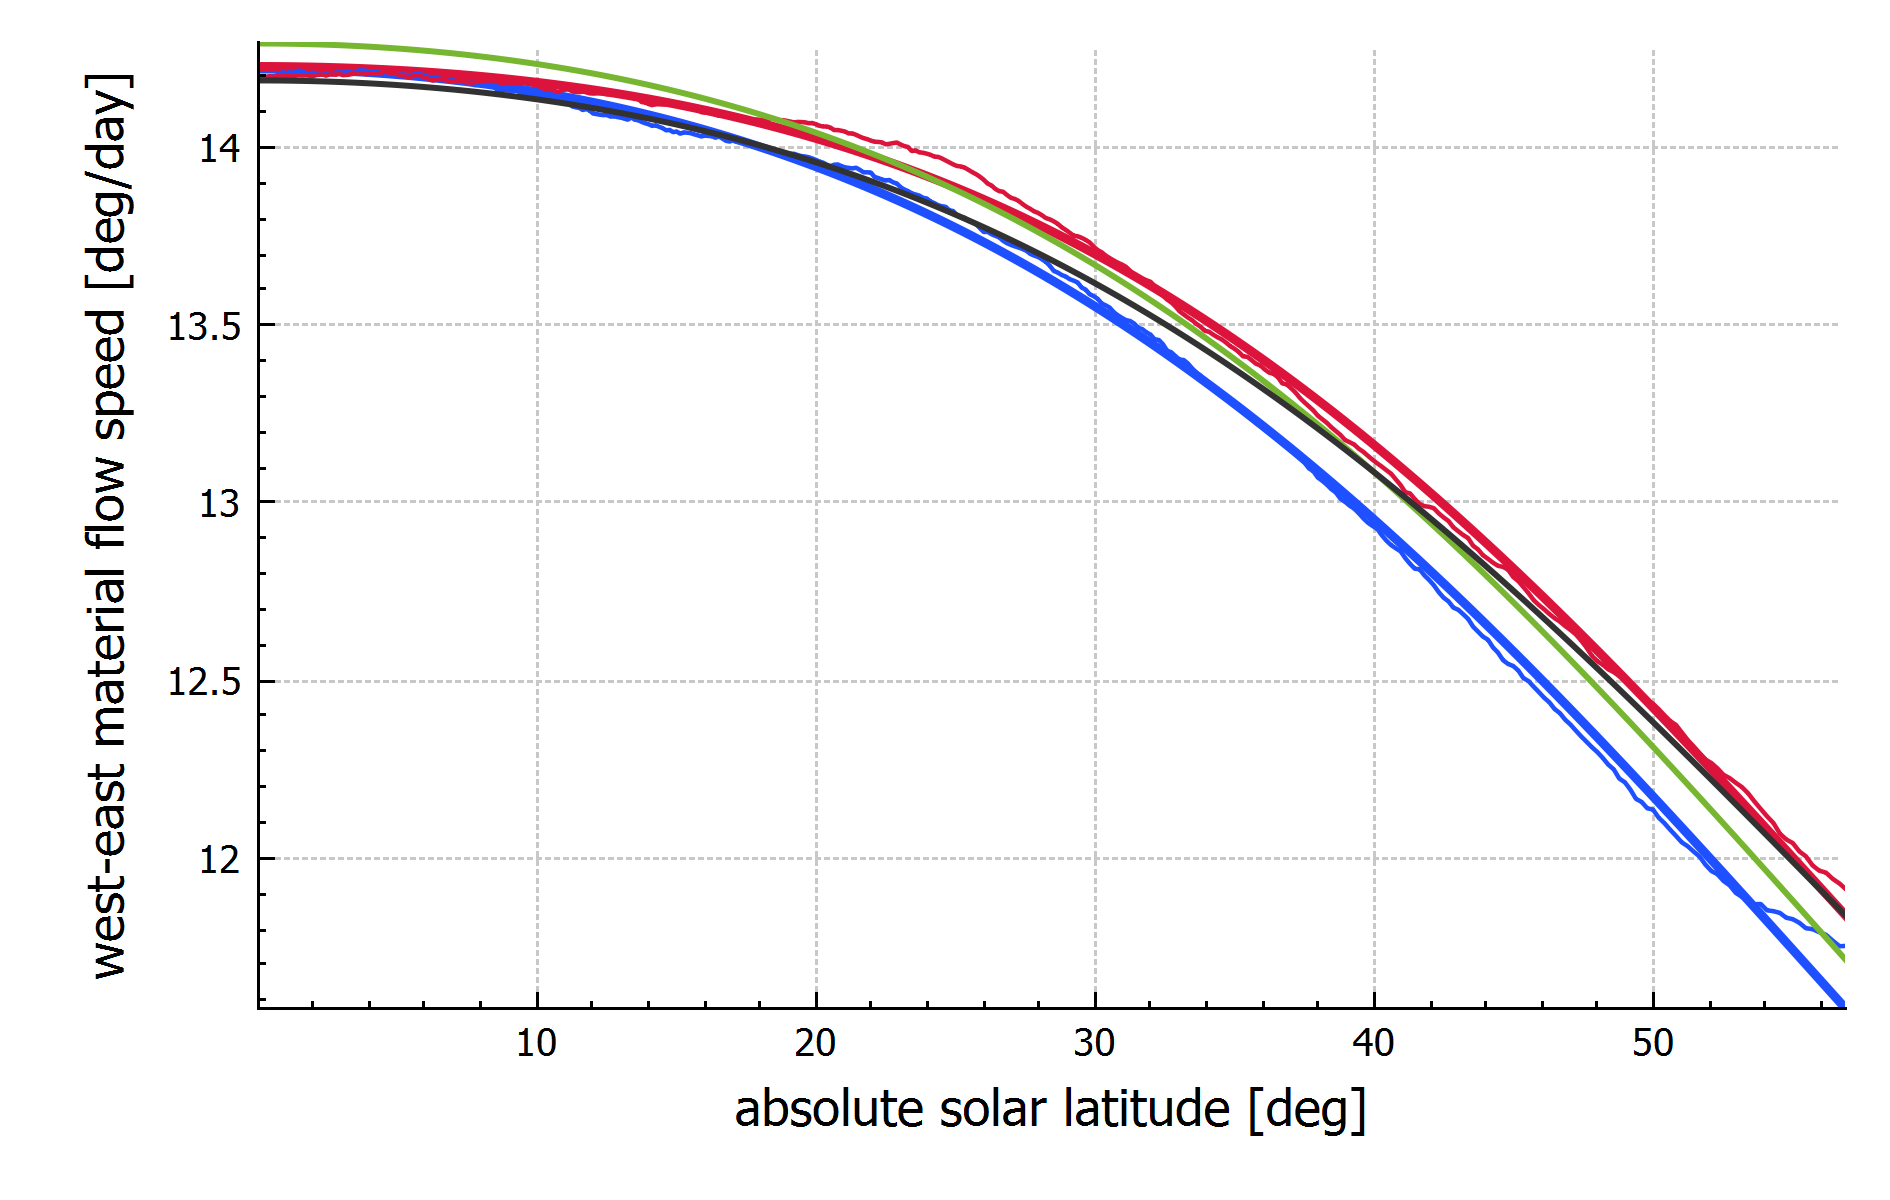
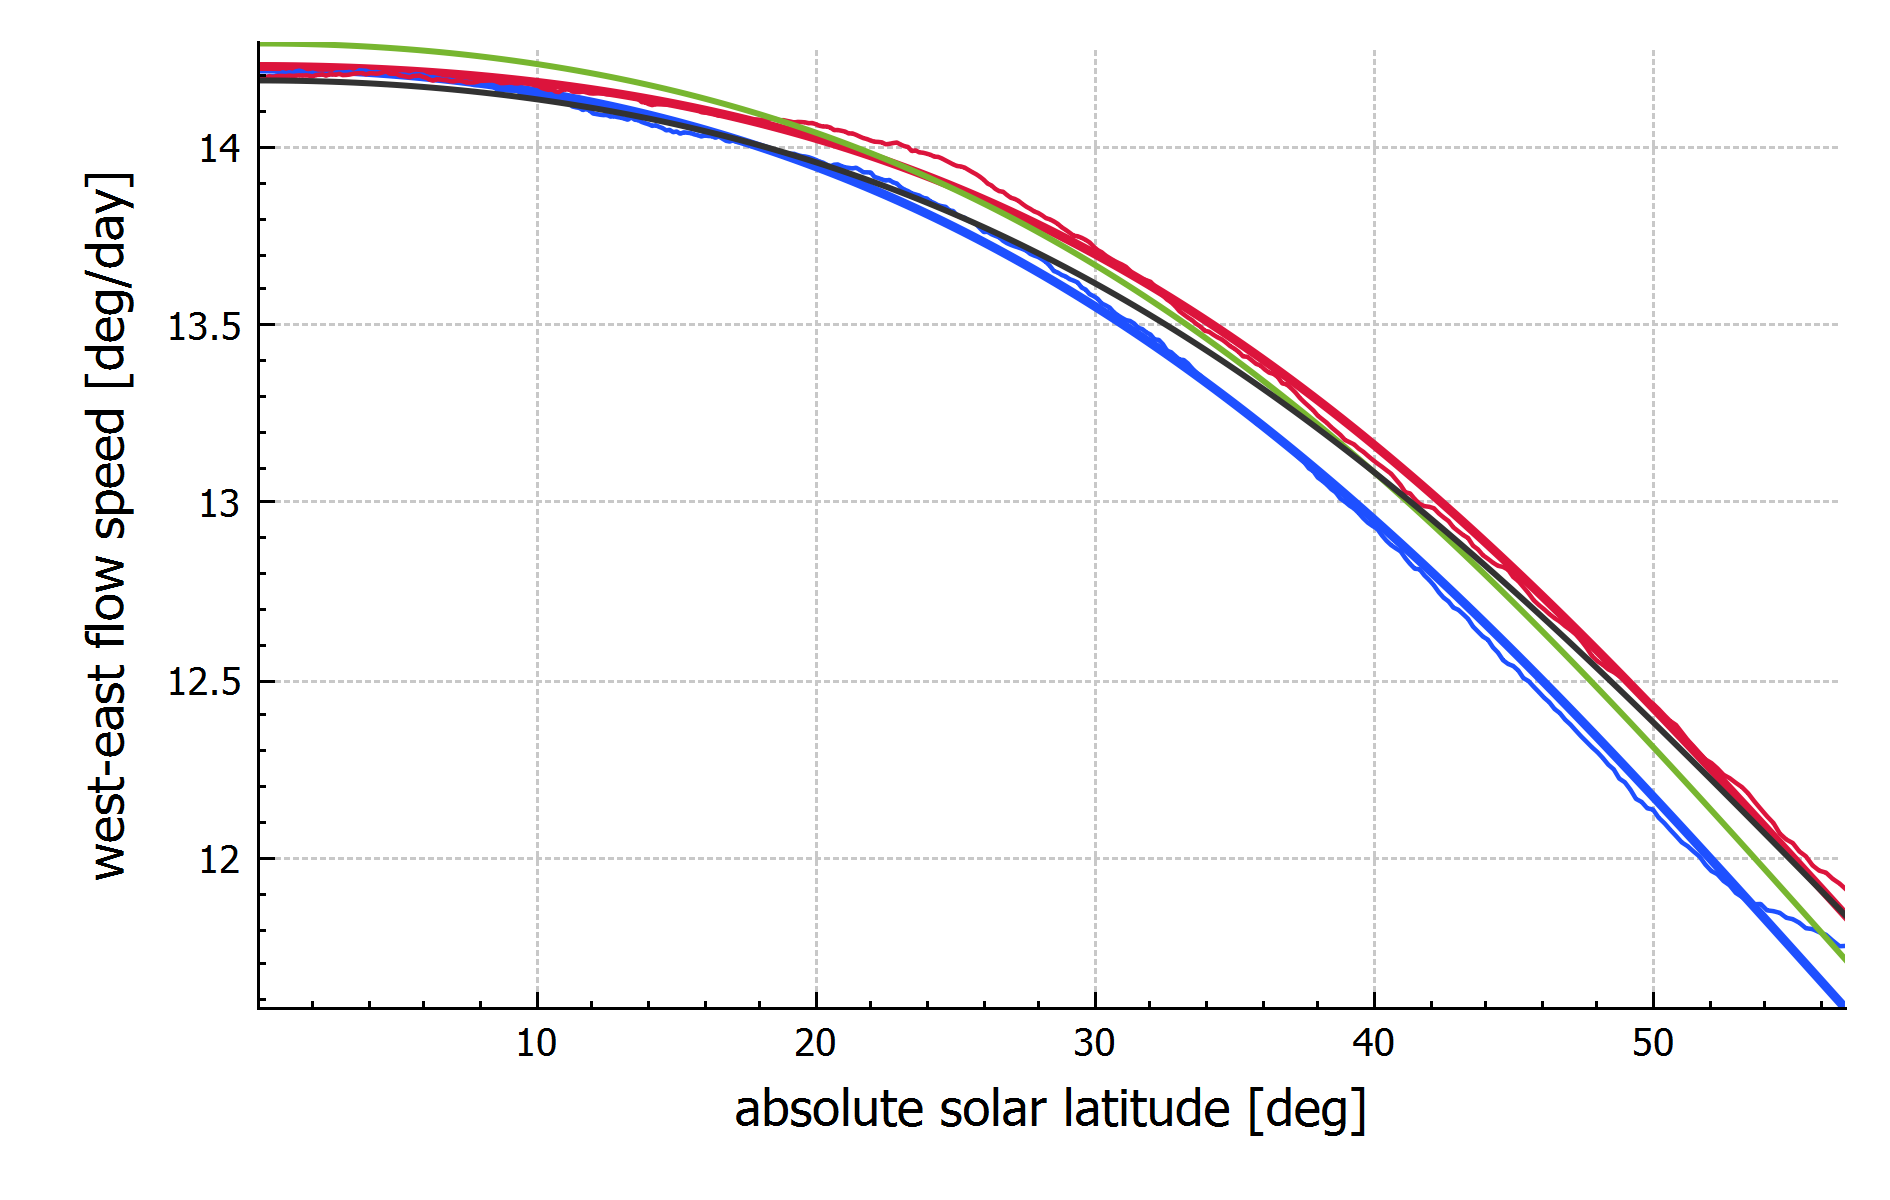
median results for 302

Changed region(s): [[0.0312, 0.0617, 0.0937, 0.8017]]

diff --git a/Zdeny_PhD_Shenanigans/Astrophysics/diffrotResults.h b/Zdeny_PhD_Shenanigans/Astrophysics/diffrotResults.h
@@ -39,24 +39,24 @@ public:
     // ======================================================== PLOTS ========================================================
 
     // diffrot profiles
-    Plot1D::plot(SourceThetasavg, std::vector<std::vector<double>>{polyfit(SourceThetasavg, SourceOmegasXavg, 2), SourceOmegasXavg, PredicXs[0], PredicXs[1]}, "diffrot profile X", "solar latitude [deg]", "west-east material flow speed [deg/day]", std::vector<std::string>{"polyfit2", "average", "Derek A. Lamb (2017)", "Howard et al. (1983)"}, std::vector<QPen>{QPen(Plot::black, 3), QPen(Plot::green, 1.5), QPen(Plot::blue, 2), QPen(Plot::red, 2)}, saveDir + "1DXs" + to_string(SourceStride) + ".png");
-    Plot1D::plot(SourceThetasavg, std::vector<std::vector<double>>{polyfit(SourceThetasavg, SourceOmegasYavg, 3), SourceOmegasYavg}, "diffrot profile Y", "solar latitude [deg]", "north-south material flow speed [deg/day]", std::vector<std::string>{"polyfit3", "average"}, std::vector<QPen>{QPen(Plot::black, 3), QPen(Plot::green, 1.5)}, saveDir + "1DYs" + to_string(SourceStride) + ".png"); // rgb(119, 136, 153)
+    Plot1D::plot(SourceThetasavg, std::vector<std::vector<double>>{polyfit(SourceThetasavg, SourceOmegasXavg, 2), SourceOmegasXavg, PredicXs[0], PredicXs[1]}, "diffrot profile X", "solar latitude [deg]", "west-east flow speed [deg/day]", std::vector<std::string>{"polyfit2", "average", "Derek A. Lamb (2017)", "Howard et al. (1983)"}, std::vector<QPen>{QPen(Plot::black, 3), QPen(Plot::green, 1.5), QPen(Plot::blue, 2), QPen(Plot::red, 2)}, saveDir + "1DXs" + to_string(SourceStride) + ".png");
+    Plot1D::plot(SourceThetasavg, std::vector<std::vector<double>>{polyfit(SourceThetasavg, SourceOmegasYavg, 3), SourceOmegasYavg}, "diffrot profile Y", "solar latitude [deg]", "north-south flow speed [deg/day]", std::vector<std::string>{"polyfit3", "average"}, std::vector<QPen>{QPen(Plot::black, 3), QPen(Plot::green, 1.5)}, saveDir + "1DYs" + to_string(SourceStride) + ".png"); // rgb(119, 136, 153)
 
     // diffrot profiles NS
-    Plot1D::plot(ThetasNS, std::vector<std::vector<double>>{sin2sin4fit(toRadians(ThetasNS), OmegasXavgN), sin2sin4fit(toRadians(ThetasNS), OmegasXavgS), OmegasXavgN, OmegasXavgS, PredicXsNS[0], PredicXsNS[1]}, "diffrot profile NS X", "absolute solar latitude [deg]", "west-east material flow speed [deg/day]", std::vector<std::string>{"trigfit North", "trigfit South", "average North", "average South", "Derek A. Lamb (2017)", "Howard et al. (1983)"}, std::vector<QPen>{QPen(Plot::blue, 3), QPen(Plot::red, 3), QPen(Plot::blue, 1.5), QPen(Plot::red, 1.5), QPen(Plot::green, 2), QPen(Plot::black, 2)}, saveDir + "1DNSXs" + to_string(SourceStride) + ".png");
-    Plot1D::plot(ThetasNS, std::vector<std::vector<double>>{sin2sin4fit(toRadians(ThetasNS), OmegasYavgN), sin2sin4fit(toRadians(ThetasNS), OmegasYavgS), OmegasYavgN, OmegasYavgS}, "diffrot profile NS Y", "absolute solar latitude [deg]", "north-south material flow speed [deg/day]", std::vector<std::string>{"trigfit North", "trigfit South", "average North", "average South"}, std::vector<QPen>{QPen(Plot::blue, 3), QPen(Plot::red, 3), QPen(Plot::blue, 1.5), QPen(Plot::red, 1.5)}, saveDir + "1DNSYs" + to_string(SourceStride) + ".png");
+    Plot1D::plot(ThetasNS, std::vector<std::vector<double>>{sin2sin4fit(toRadians(ThetasNS), OmegasXavgN), sin2sin4fit(toRadians(ThetasNS), OmegasXavgS), OmegasXavgN, OmegasXavgS, PredicXsNS[0], PredicXsNS[1]}, "diffrot profile NS X", "absolute solar latitude [deg]", "west-east flow speed [deg/day]", std::vector<std::string>{"trigfit North", "trigfit South", "average North", "average South", "Derek A. Lamb (2017)", "Howard et al. (1983)"}, std::vector<QPen>{QPen(Plot::blue, 3), QPen(Plot::red, 3), QPen(Plot::blue, 1.5), QPen(Plot::red, 1.5), QPen(Plot::green, 2), QPen(Plot::black, 2)}, saveDir + "1DNSXs" + to_string(SourceStride) + ".png");
+    Plot1D::plot(ThetasNS, std::vector<std::vector<double>>{sin2sin4fit(toRadians(ThetasNS), OmegasYavgN), sin2sin4fit(toRadians(ThetasNS), OmegasYavgS), OmegasYavgN, OmegasYavgS}, "diffrot profile NS Y", "absolute solar latitude [deg]", "north-south flow speed [deg/day]", std::vector<std::string>{"trigfit North", "trigfit South", "average North", "average South"}, std::vector<QPen>{QPen(Plot::blue, 3), QPen(Plot::red, 3), QPen(Plot::blue, 1.5), QPen(Plot::red, 1.5)}, saveDir + "1DNSYs" + to_string(SourceStride) + ".png");
 
     // shifts profiles
     Plot1D::plot(SourceThetasavg, std::vector<std::vector<double>>{polyfit(SourceThetasavg, SourceShiftsXavg, 2), SourceShiftsXavg, ShiftsXErrorsBot, ShiftsXErrorsTop}, "shifts profile X", "solar latitude [deg]", "west-east image shift [px]", std::vector<std::string>{"polyfit2", "average", "average - stdev", "average + stdev"}, std::vector<QPen>{QPen(Plot::black, 3), QPen(Plot::green, 1.5), QPen(Plot::blue, 0.75), QPen(Plot::red, 0.75)}, saveDir + "1DsXs" + to_string(SourceStride) + ".png");
     Plot1D::plot(SourceThetasavg, std::vector<std::vector<double>>{polyfit(SourceThetasavg, SourceShiftsYavg, 3), SourceShiftsYavg, ShiftsYErrorsBot, ShiftsYErrorsTop}, "shifts profile Y", "solar latitude [deg]", "north-south image shift [px]", std::vector<std::string>{"polyfit3", "average", "average - stdev", "average + stdev"}, std::vector<QPen>{QPen(Plot::black, 3), QPen(Plot::green, 1.5), QPen(Plot::blue, 0.75), QPen(Plot::red, 0.75)}, saveDir + "1DsYs" + to_string(SourceStride) + ".png");
 
     // flows ratio1
-    Plot2D::plot(applyQuantile(FlowX, quanBot, quanTop), "diffrot flow X", "time [days]", "solar latitude [deg]", "west-east material flow speed [deg/day]", StartTime, EndTime, StartTheta, EndTheta, colRowRatio1, saveDir + "2DXm" + to_string(medianSize) + "r1s" + to_string(SourceStride) + ".png");
-    Plot2D::plot(applyQuantile(FlowY, quanBot, quanTop), "diffrot flow Y", "time [days]", "solar latitude [deg]", "north-south material flow speed [deg/day]", StartTime, EndTime, StartTheta, EndTheta, colRowRatio1, saveDir + "2DYm" + to_string(medianSize) + "r1s" + to_string(SourceStride) + ".png");
+    Plot2D::plot(applyQuantile(FlowX, quanBot, quanTop), "diffrot flow X", "time [days]", "solar latitude [deg]", "west-east flow speed [deg/day]", StartTime, EndTime, StartTheta, EndTheta, colRowRatio1, saveDir + "2DXm" + to_string(medianSize) + "r1s" + to_string(SourceStride) + ".png");
+    Plot2D::plot(applyQuantile(FlowY, quanBot, quanTop), "diffrot flow Y", "time [days]", "solar latitude [deg]", "north-south flow speed [deg/day]", StartTime, EndTime, StartTheta, EndTheta, colRowRatio1, saveDir + "2DYm" + to_string(medianSize) + "r1s" + to_string(SourceStride) + ".png");
 
     // flows ratio2
-    Plot2D::plot(applyQuantile(FlowX, quanBot, quanTop), "diffrot flow X r", "time [days]", "solar latitude [deg]", "west-east material flow speed [deg/day]", StartTime, EndTime, StartTheta, EndTheta, colRowRatio2, saveDir + "2DXm" + to_string(medianSize) + "r2s" + to_string(SourceStride) + ".png");
-    Plot2D::plot(applyQuantile(FlowY, quanBot, quanTop), "diffrot flow Y r", "time [days]", "solar latitude [deg]", "north-south material flow speed [deg/day]", StartTime, EndTime, StartTheta, EndTheta, colRowRatio2, saveDir + "2DYm" + to_string(medianSize) + "r2s" + to_string(SourceStride) + ".png");
+    Plot2D::plot(applyQuantile(FlowX, quanBot, quanTop), "diffrot flow X r", "time [days]", "solar latitude [deg]", "west-east flow speed [deg/day]", StartTime, EndTime, StartTheta, EndTheta, colRowRatio2, saveDir + "2DXm" + to_string(medianSize) + "r2s" + to_string(SourceStride) + ".png");
+    Plot2D::plot(applyQuantile(FlowY, quanBot, quanTop), "diffrot flow Y r", "time [days]", "solar latitude [deg]", "north-south flow speed [deg/day]", StartTime, EndTime, StartTheta, EndTheta, colRowRatio2, saveDir + "2DYm" + to_string(medianSize) + "r2s" + to_string(SourceStride) + ".png");
   }
 
   double GetError()
